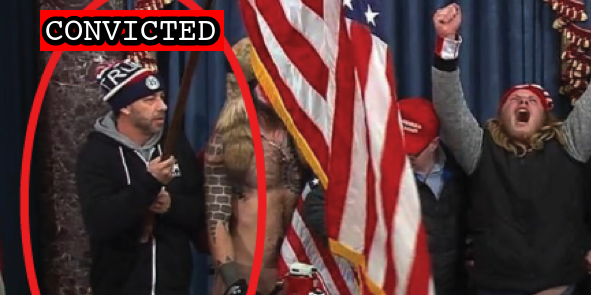
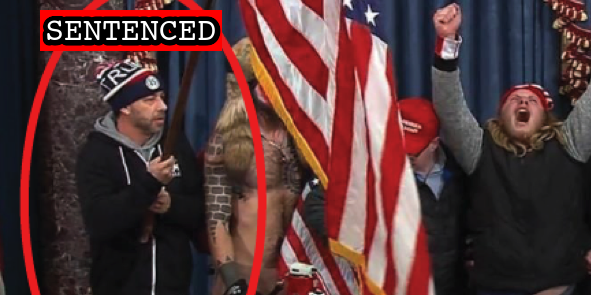
Missing sentence

Changed region(s): [[0.0609, 0.0305, 0.3046, 0.1525], [0.3655, 0.061, 0.3959, 0.1525]]

diff --git a/docs/_suspects/tommy-allan.md b/docs/_suspects/tommy-allan.md
@@ -4,13 +4,13 @@ lastName: Allan
 hashtag: TommyFrederickAllan
 aka:
 residence: California
-status: Convicted
+status: Sentenced
 date: 2021-01-22
 charged: 2021-01-22
 indicted: 2021-02-02
 convicted: 2022-08-11
 acquitted:
-sentenced:
+sentenced: 2022-12-08
 dismissed:
 deceased:
 plea_hearing: 2022-08-11
@@ -41,12 +41,16 @@ caseName: USA v. ALLAN
 judge: Colleen Kollar-Kotelly
 videos:
 charges:
-- code: 18 USC § 1512(c)(2),2
-  title: Obstruction of an Official Proceeding (Aiding and Abetting)
-  url: https://www.law.cornell.edu/uscode/text/18/1512
-  felony: true
+  - code: 18 USC § 1512(c)(2),2
+    title: Obstruction of an Official Proceeding (Aiding and Abetting)
+    url: https://www.law.cornell.edu/uscode/text/18/1512
+    felony: true
 sentence:
+  - 21 months incarceration
+  - 3 years probation
+  - $0 restitution
 ---
+
 - [News Report](https://www.sacbee.com/news/local/article248703410.html)
 - [Complaint](https://www.justice.gov/file/1360801/download)
 - [Statement of Facts](https://www.justice.gov/opa/case-multi-defendant/file/1360801/download)
